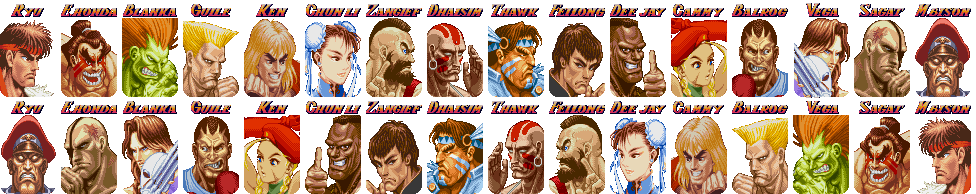
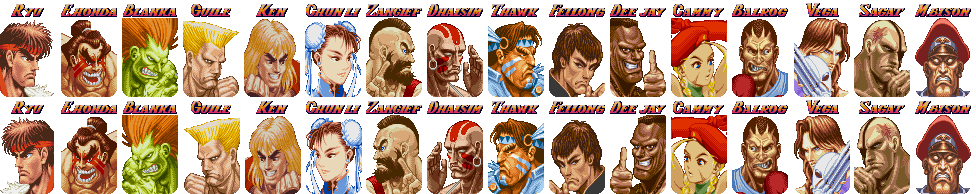
Fix name character

diff --git a/JeuDeCombats/src/main/Fighting.java b/JeuDeCombats/src/main/Fighting.java
@@ -56,7 +56,7 @@ public class Fighting extends BasicGameState {
 		// draw head player1
 		this.iconCharacter.draw(5*scaleX, 0, 8*scaleX+61*scaleX, 14*scaleY+97*scaleY, this.window.getNumeroCharacterPlayer1()*61, 0, this.window.getNumeroCharacterPlayer1()*61+61, 97);
 		// draw head player2
-		this.iconCharacter.draw(gc.getWidth()-61*scaleX, 0 , gc.getWidth(), 97*scaleY, (15-this.window.getNumeroCharacterPlayer2())*61, 97, (15-this.window.getNumeroCharacterPlayer2())*61+61, 194);
+		this.iconCharacter.draw(gc.getWidth()-61*scaleX, 0 , gc.getWidth(), 97*scaleY, this.window.getNumeroCharacterPlayer2()*61, 97, this.window.getNumeroCharacterPlayer2()*61+61, 194);
 
 
 		this.iconKO.draw(gc.getWidth()/2-(40/2)*scaleX, 5*scaleY, gc.getWidth()/2+(40/2)*scaleX, 5*scaleY+20*scaleY, 0, 0, 40, 31);

diff --git a/JeuDeCombats/src/main/SelectionCharacter.java b/JeuDeCombats/src/main/SelectionCharacter.java
@@ -99,7 +99,7 @@ public class SelectionCharacter extends BasicGameState {
 		this.iconCharacter.draw(8*scaleX, 14*scaleY , 8*scaleX+61*scaleX, 14*scaleY+97*scaleY, cursor1*61, 0, cursor1*61+61, 97);
 		
 		// draw head player2
-		this.iconCharacter.draw(192*scaleX, 14*scaleY , 192*scaleX+61*scaleX, 14*scaleY+97*scaleY, (15-cursor2)*61, 97, (15-cursor2)*61+61, 194);
+		this.iconCharacter.draw(192*scaleX, 14*scaleY , 192*scaleX+61*scaleX, 14*scaleY+97*scaleY, cursor2*61, 97, cursor2*61+61, 194);
 	
 	
 		// draw map choice
